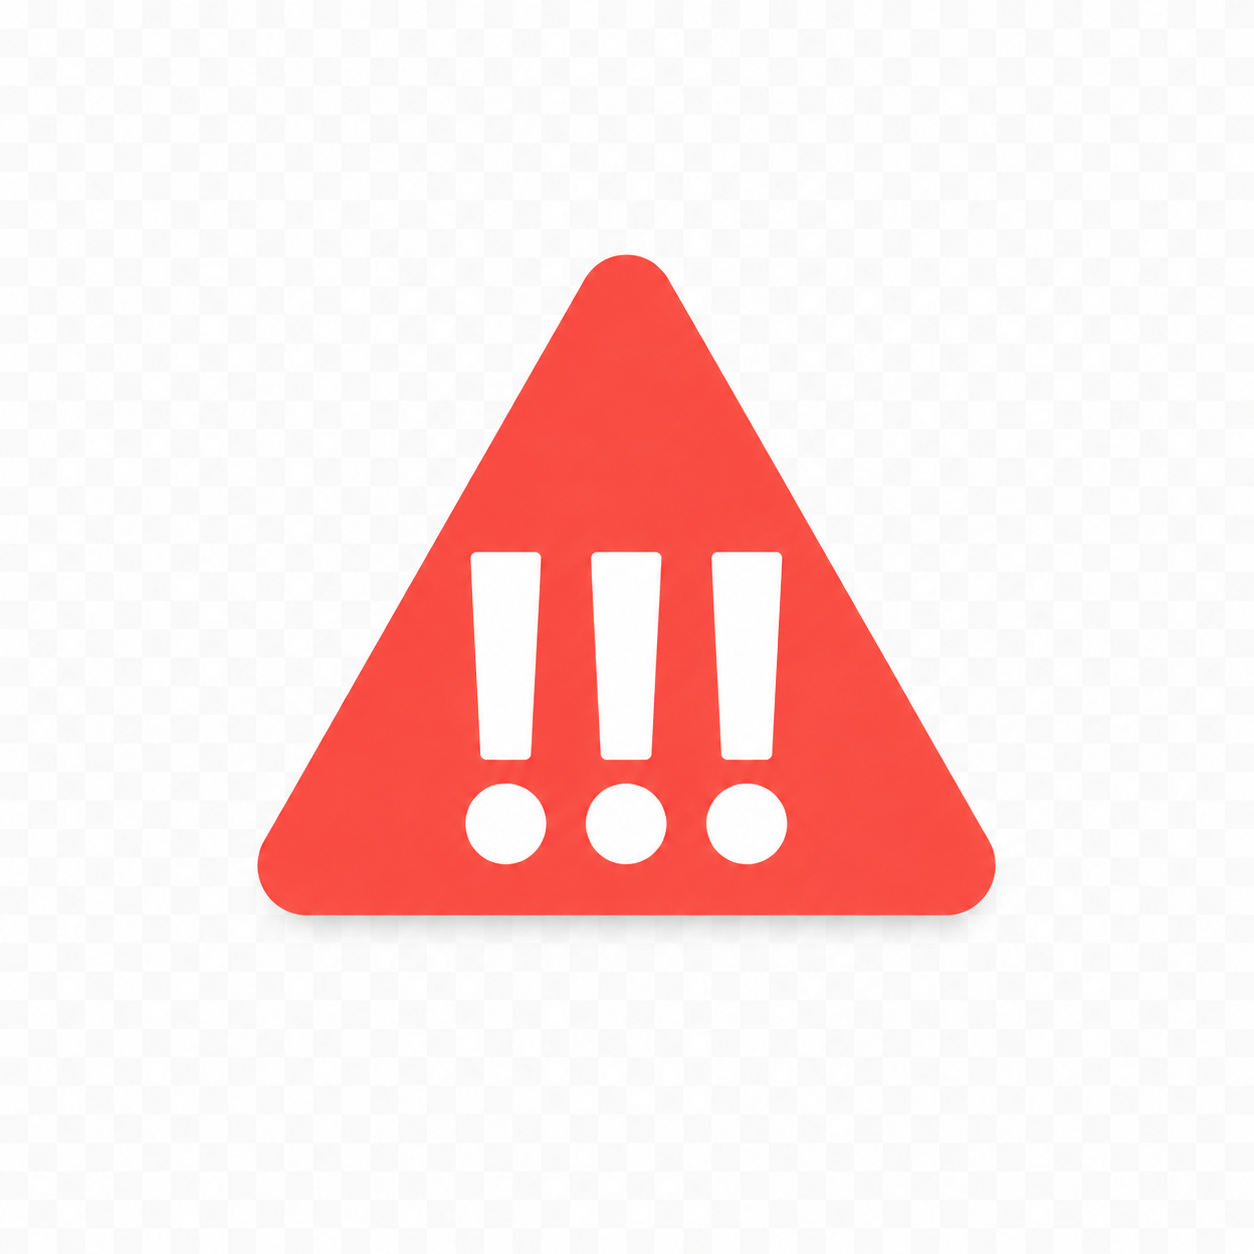
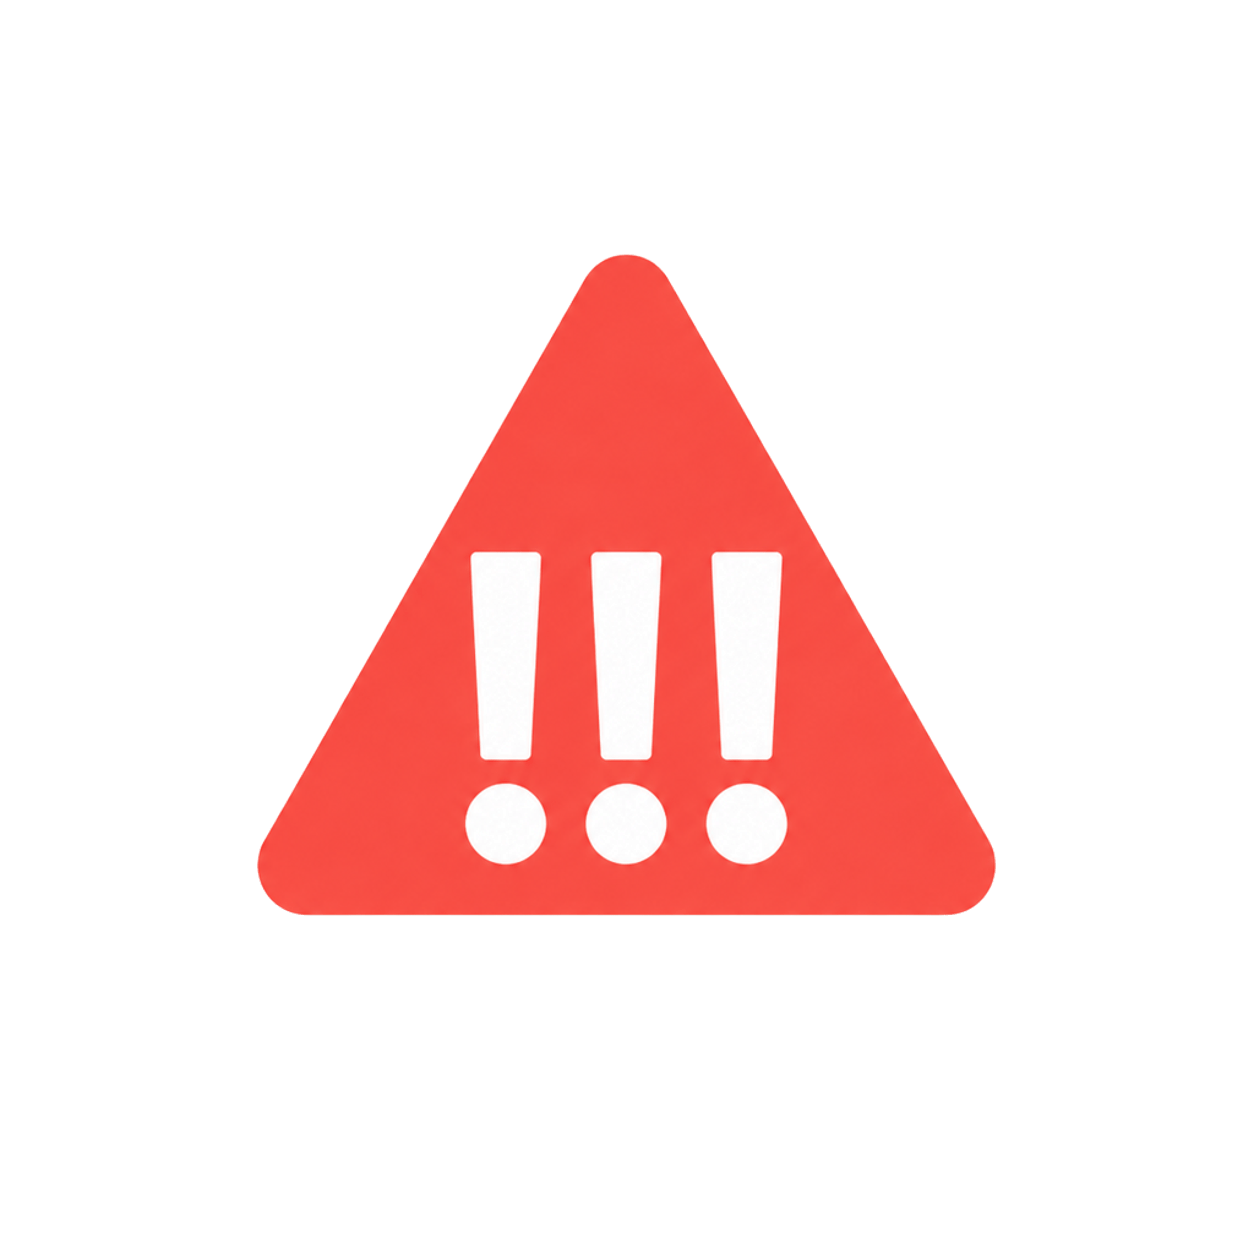
guardar valores de departamento, deporteprobelma, fecha de inicio, prioridad, estado, creador

Changed region(s): [[0.2177, 0.7153, 0.7775, 0.7464]]

diff --git a/app/components/dashboard/TicketForm.tsx b/app/components/dashboard/TicketForm.tsx
@@ -9,9 +9,16 @@ type Props = {
 };
 
 export default function TicketForm({ onTicketCreado }: Props) {
-    const { ticketProyectos, loadingProyectos, errorProyectos } = useTicketForm();
+    const { ticketProyectos,
+        loadingProyectos, 
+        errorProyectos, 
+        ticketPrioridad, 
+        loadingPrioridad, 
+        errorPrioridad 
+    } = useTicketForm();
     const { createTicket, loadingTicket, errorTicket, successTicket } = useCreateTicket();
     const [idProyecto, setIdProyecto] = useState("");
+    const [idPrioridad, setIdPrioridad] = useState("");
     const [sucursal, setSucursal] = useState("");
     const [departamento, setDepartamento] = useState("");
     const [problem, setProblem] = useState("");
@@ -19,11 +26,27 @@ export default function TicketForm({ onTicketCreado }: Props) {
     const handleSubmit = async (e: React.FormEvent) => {
         e.preventDefault(); // Evita que el navegador recargue la página
 
+        const idUsuarioString = localStorage.getItem("idUsuario");
+
+        if (!idUsuarioString) {
+            console.error("No hay usuario logueado en localStorage");
+            return;
+        }
+
+        const idUsuario = Number(idUsuarioString);
+
+        if (isNaN(idUsuario)) {
+            console.error("idUsuario no es un número válido:", idUsuarioString);
+            return;
+        }
+
         const datosTicket = { // ----> construccion del objeto datosTicket
             id_proyecto: Number(idProyecto),
             sucursal: sucursal,
             departamento: departamento,
             problem: problem,
+            id_usuario: Number(idUsuario),
+            id_prioridad: Number(idPrioridad),
         }; // <-------
 
         console.log("Datos enviados desde TicketForm:", datosTicket);
@@ -33,8 +56,11 @@ export default function TicketForm({ onTicketCreado }: Props) {
         if (ticketCreado) {
             console.log("Ticket creado correctamente:", ticketCreado);
 
+            //Limpiar datos
             setIdProyecto("");
             setSucursal("");
+            setDepartamento("");
+            setProblem("");
 
             if (onTicketCreado) {
                 onTicketCreado();
@@ -72,6 +98,29 @@ export default function TicketForm({ onTicketCreado }: Props) {
                             value={proyecto.id_proyecto}
                         >
                             {proyecto.nombre}
+                        </option>
+
+                    ))}
+                </select>
+            </label>
+
+            <label className="flex flex-col gap-1">
+
+                Prioridad
+                <select
+                    value={idPrioridad}
+                    onChange={(e) => setIdPrioridad(e.target.value)}
+                    className="p-2 rounded border bg-gray-700 text-white border-gray-600"
+                    required
+                >
+                    <option value="">Selecciona una prioridad</option>
+
+                    {ticketPrioridad.map((prioridad) => (
+                        <option
+                            key={prioridad.id_prioridad}
+                            value={prioridad.id_prioridad}
+                        >
+                            {prioridad.nombrep}
                         </option>
 
                     ))}

diff --git a/app/hook/dashboard/useTicketForm.ts b/app/hook/dashboard/useTicketForm.ts
@@ -7,11 +7,19 @@ export type Proyecto = {
     nombre: string;
 };
 
+export type Prioridad = {
+    id_prioridad: number;
+    nombrep: string;
+};
+
 export function useTicketForm() {
     const [ticketProyectos, setTicketProyectos] = useState<Proyecto[]>([]);
     const [loadingProyectos, setLoadingProyectos] = useState(true);
     const [errorProyectos, setError] = useState<string | null>(null);
-    
+
+    const [ticketPrioridad, setTicketPrioridad] = useState<Prioridad[]>([]);
+    const [loadingPrioridad, setLoadingPrioridad] = useState(true);
+    const [errorPrioridad, setErrorPrioridad] = useState<string | null>(null);
 
     useEffect(() => {
         async function fetchProyectos() {
@@ -41,12 +49,40 @@ export function useTicketForm() {
             }
         }
 
+
+        async function fetchPrioridades() {
+            try{
+                const res = await fetch("/api/dashboard/Prioridad");
+                const result = await res.json();
+
+                console.log("Prioridades recibidos:", result);
+
+                if(!result.success) {
+                    setErrorPrioridad(result.message);
+                    setTicketPrioridad([]);
+                    return;
+                }
+
+                setTicketPrioridad(result.prioridad || [] );
+            } catch (err){
+                setErrorPrioridad("Error al cargar prioridades");
+                setTicketPrioridad([]);
+                console.error(err);
+            } finally {
+                setLoadingPrioridad(false);
+            }
+        }
+
         fetchProyectos();
+        fetchPrioridades();
     }, []);
 
     return {
         ticketProyectos,
         loadingProyectos,
         errorProyectos,
+        ticketPrioridad,
+        loadingPrioridad,
+        errorPrioridad,
     };
 }

diff --git a/app/api/dashboard/CrearTicket/route.ts b/app/api/dashboard/CrearTicket/route.ts
@@ -2,16 +2,9 @@ import { NextResponse } from "next/server";
 import { supabase } from "@/lib/supabaseClient";
 
 export async function POST(req: Request) {
-    const { id_proyecto, sucursal, departamento, problem } = await req.json();
+    const { id_proyecto, sucursal, departamento, problem, fechainicio, id_usuario, id_prioridad } = await req.json();
 
-    console.log("Datos recibidos en API:", {
-        id_proyecto,
-        sucursal,
-        departamento,
-        problem,
-    });
-
-    if (!id_proyecto || !sucursal || !departamento || !problem) {
+    if (!id_proyecto || !sucursal || !departamento || !problem || !id_usuario || !id_prioridad) {
         return NextResponse.json({
             success: false,
             message: "Faltan datos obligatorios",
@@ -20,6 +13,15 @@ export async function POST(req: Request) {
 
     const fechaInicio = new Date().toISOString(); // formato UTC "2026-05-15T15:30:00.000Z"
 
+    console.log("Datos recibidos en API:", {
+        id_proyecto,
+        sucursal,
+        departamento,
+        problem,
+        fechainicio,
+        id_usuario
+    });
+
     const { data, error } = await supabase
         .from("ticket")
         .insert({
@@ -27,7 +29,10 @@ export async function POST(req: Request) {
             sucursal: sucursal,
             departamento: departamento,
             reporteproblema: problem,
-            fechainicio: fechaInicio
+            id_usuario: id_usuario,
+            fechainicio: fechaInicio,
+            id_prioridad: id_prioridad,
+            id_estado: 1
         })
         .select()
         .single();

diff --git a/app/api/login/route.ts b/app/api/login/route.ts
@@ -1,6 +1,5 @@
 import { NextResponse } from "next/server";
 import { supabase } from "@/lib/supabaseClient";
-import jwt from "jsonwebtoken";
 
 export async function POST(req: Request) {
     const { usuario, password } = await req.json();
@@ -25,20 +24,11 @@ export async function POST(req: Request) {
         });
     }
 
-    const jwtToken = jwt.sign({ id: data.id_usuario, rol: data.nombrer }, "MI_SECRET_KEY", { expiresIn: "1h" });
-
-
     return NextResponse.json(
         {
-        success: true,
-        message: "Login correcto",
-        user: { nombre: data.nombre, rol: data.rol.nombrer }},
-        {
-            status: 200,
-            headers: {
-                'Set-Cookie': `token=${jwtToken}; HttpOnly; Path=/; Secure; SameSite=Strict`
-            }
+            success: true,
+            message: "Login correcto",
+            user: { nombre: data.nombre, rol: data.TablaRol.nombrer, id_usuario: data.id_usuario }
         }
-        
     );
 }

diff --git a/app/hook/useLogin.ts b/app/hook/useLogin.ts
@@ -15,14 +15,16 @@ export function useLogin() {
             });
 
             const data = await res.json();
+            console.log("============= Respuesta del login API:", data);
 
             if (!data.success) {
                 setError(data.message);
                 return;
             } else {
                 //if (userRole.user.TablaRol.nombrer === "Programador2") {
+                localStorage.setItem("idUsuario", data.user.id_usuario.toString());
                 localStorage.setItem("nombreUsuario", data.user.nombre);
-                localStorage.setItem("rolUsuario", data.user.TablaRol.nombrer);
+                localStorage.setItem("rolUsuario", data.user.TablaRol?.nombrer || "");
                 router.push("/welcome");
                 //}
                 //else router.push("/reset-password");

diff --git a/app/api/dashboard/Prioridad/route.ts b/app/api/dashboard/Prioridad/route.ts
@@ -1,0 +1,22 @@
+import { NextResponse } from "next/server";
+import { supabase } from "@/lib/supabaseClient";
+
+export async function GET() {
+    const { data, error } = await supabase
+        .from("prioridad")
+        .select("id_prioridad, nombrep")
+        .order("nombrep", { ascending: true });
+
+    if (error) {
+        console.error("Error al consultar prioridad:", error);
+        return NextResponse.json({
+            success: false,
+            message: "Error al consultar proyectos",
+        });
+    }
+
+    return NextResponse.json({
+        success: true,
+        prioridad: data,
+    });
+}

diff --git a/app/hook/dashboard/useCreateTicket.ts b/app/hook/dashboard/useCreateTicket.ts
@@ -7,6 +7,8 @@ export type CreateTicketData = {
     sucursal: string;
     departamento: string;
     problem: string;
+    id_usuario: number;
+    id_prioridad: number;
 };
 
 export function useCreateTicket() {
@@ -32,6 +34,8 @@ export function useCreateTicket() {
                     sucursal: data.sucursal,
                     departamento: data.departamento,
                     problem: data.problem,
+                    id_usuario: data.id_usuario,
+                    id_prioridad: data.id_prioridad
                 }),
             });
 

diff --git a/app/components/dashboard/TicketGrid.tsx b/app/components/dashboard/TicketGrid.tsx
@@ -13,9 +13,9 @@ export default function TicketGrid({ tickets, onSelect }: Props) {
 
     const getPriorityImage = (prioridad: number) => {
         switch (prioridad) {
-            case 1: return "/images/Alta.png";
+            case 1: return "/images/Baja.png";
             case 2: return "/images/Media.png";
-            case 3: return "/images/Baja.png";
+            case 3: return "/images/Alta.png";
             default: return "/images/default.png";
         }
     };
